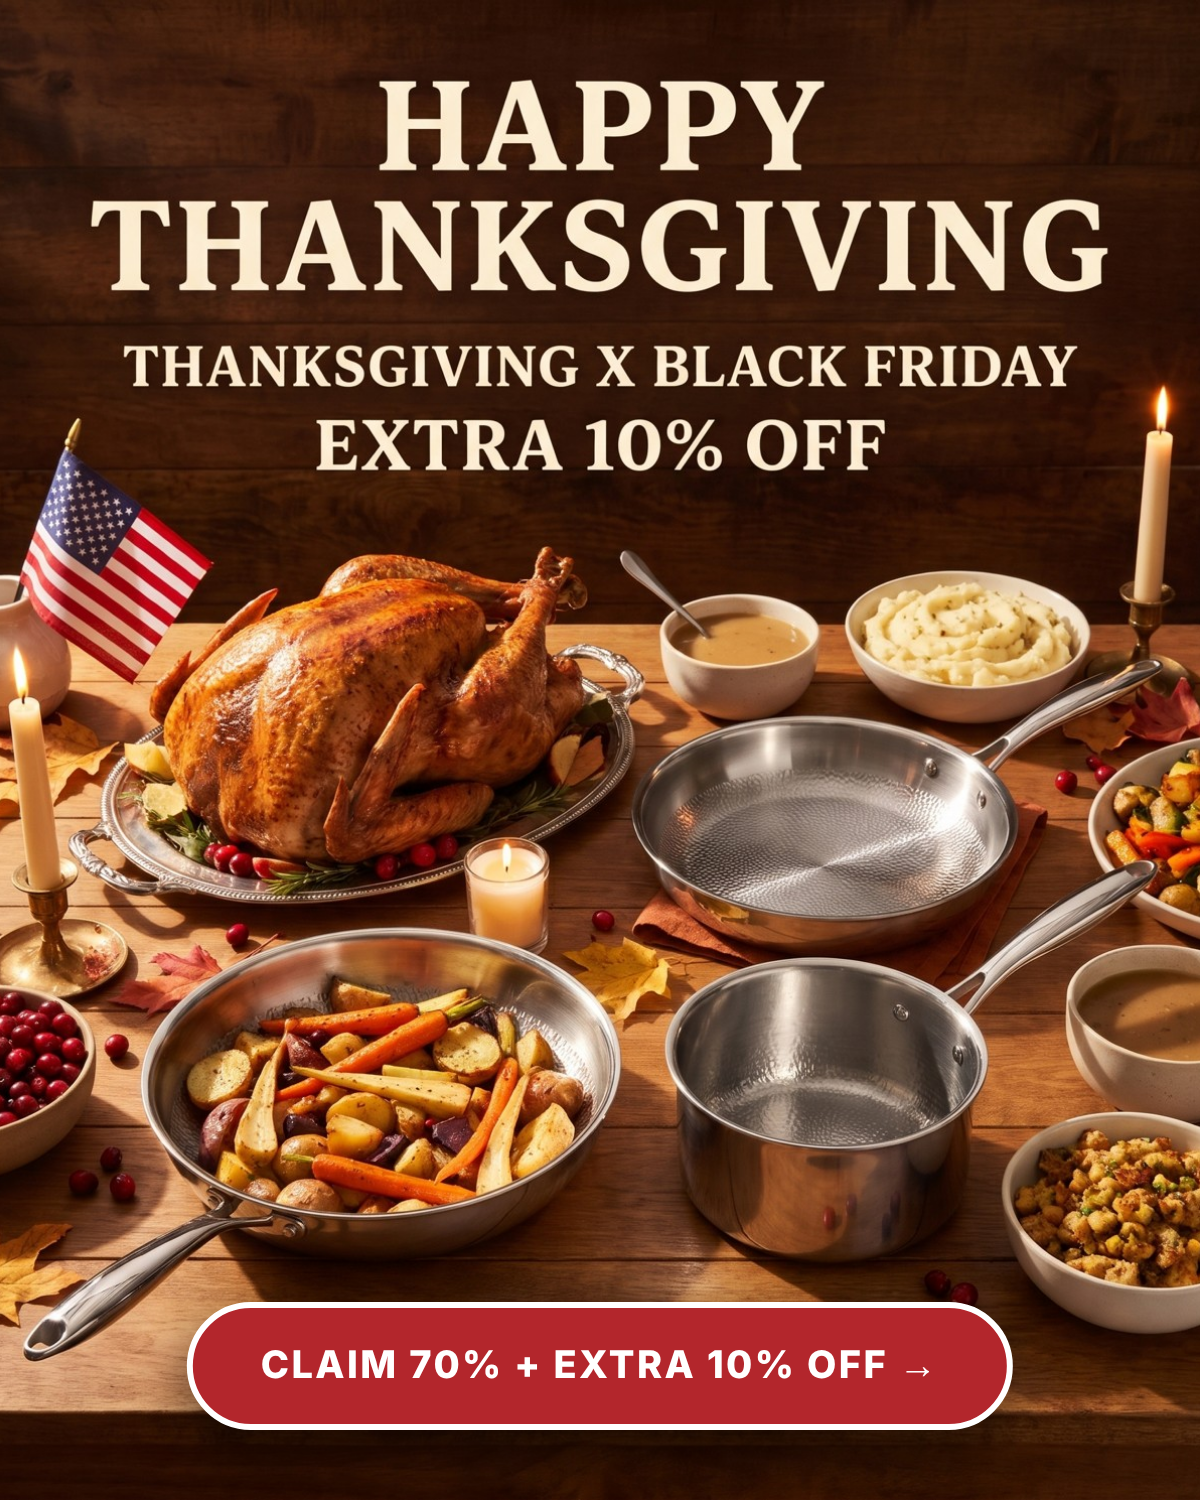
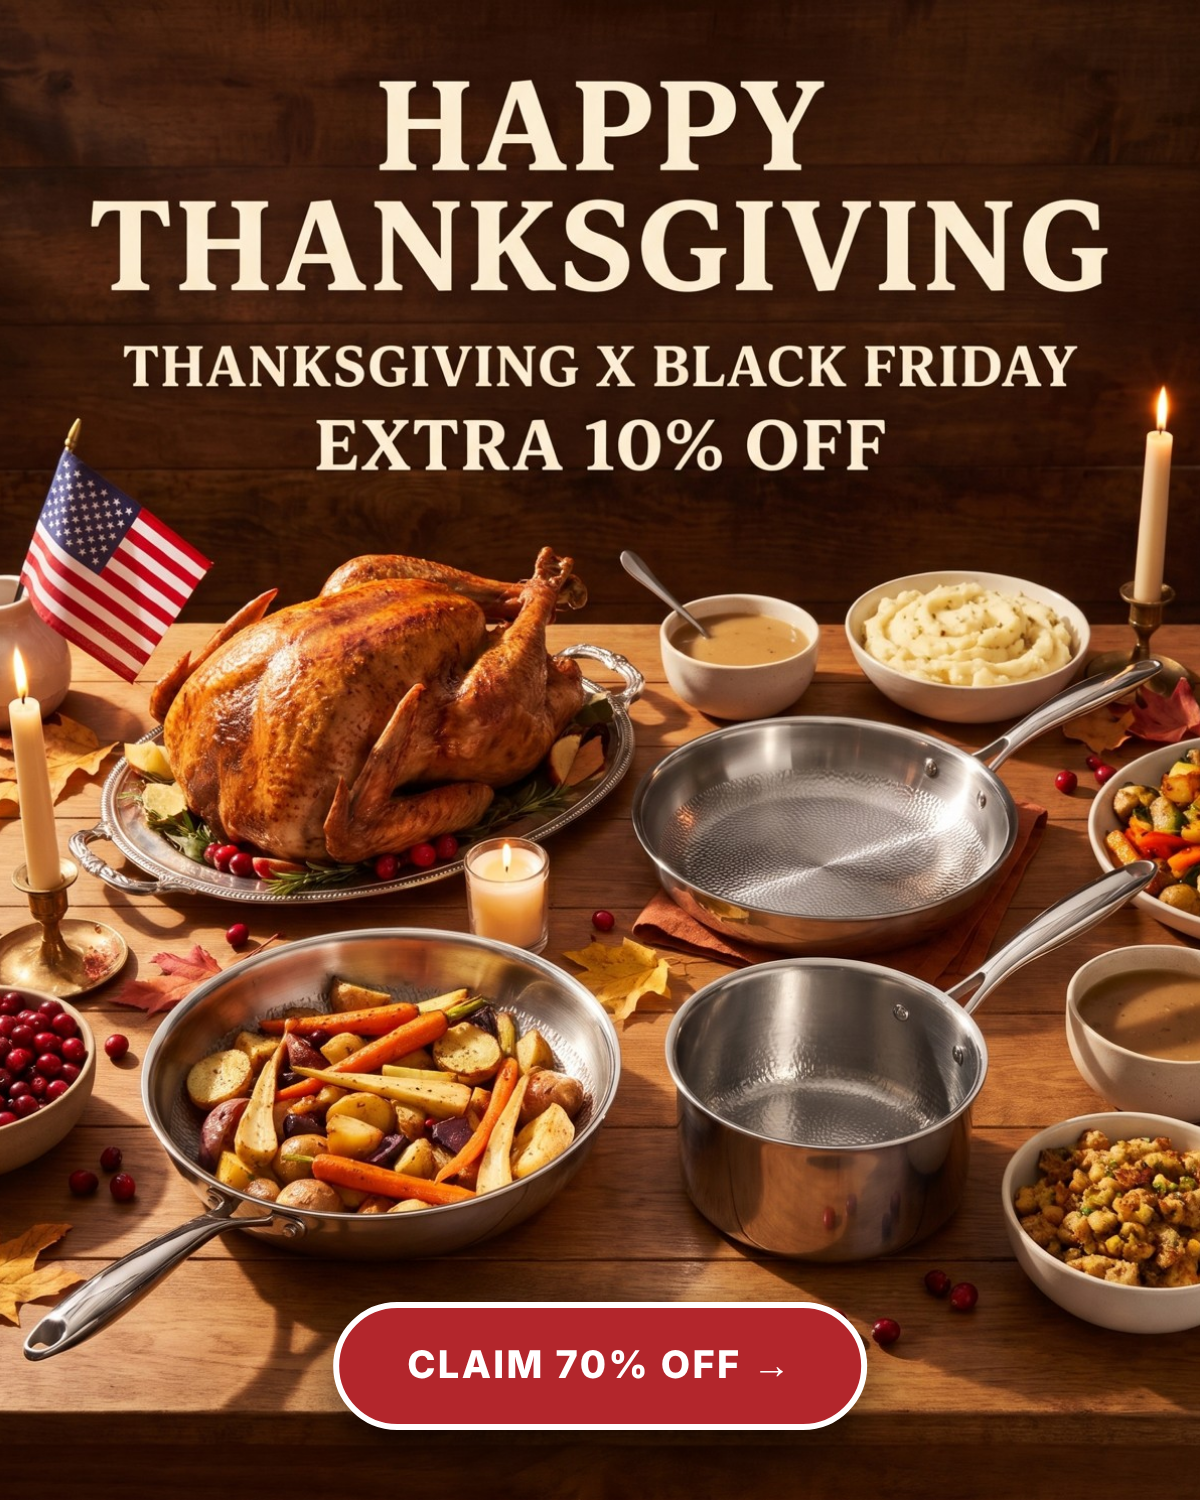
US hero button: CLAIM 70% OFF
Claude-Session: https://claude.ai/code/session_01HjCaDE95ohEXY6DPZTSH67

Changed region(s): [[0.1233, 0.8587, 0.8633, 0.9813]]

diff --git a/klaviyo/templates/v3/campaigns/thanksgiving-1126/_tools/.preview/us.html b/klaviyo/templates/v3/campaigns/thanksgiving-1126/_tools/.preview/us.html
@@ -18,7 +18,7 @@
 </td></tr>
 
 <tr><td bgcolor="#1F2A44" style="background-color:#1F2A44;padding:11px 20px;text-align:center;font-family:Inter,Arial,Helvetica,sans-serif;font-size:12px;line-height:17px;letter-spacing:1.5px;font-weight:700;color:#FFFFFF;">EXTRA 10% OFF ENDS TONIGHT AT MIDNIGHT</td></tr>
-<tr><td style="padding:0;"><a href="https://siraatskitchen.com/discount/THANKSGIVING10?redirect=/collections/black-friday-sale&utm_source=klaviyo&utm_medium=email&utm_campaign=thanksgiving-1126-us&utm_content=hero"><img src="https://cdn.klaviyomail.com/company/TdtTzz/images/9397460a-17a7-41e2-901f-aa3e456256a6.jpeg" width="600" alt="Happy Thanksgiving. Thanksgiving x Black Friday, extra 10% off. Claim 70% + extra 10% off." style="display:block;width:100%;max-width:600px;height:auto;border:0;"></a></td></tr>
+<tr><td style="padding:0;"><a href="https://siraatskitchen.com/discount/THANKSGIVING10?redirect=/collections/black-friday-sale&utm_source=klaviyo&utm_medium=email&utm_campaign=thanksgiving-1126-us&utm_content=hero"><img src="https://cdn.klaviyomail.com/company/TdtTzz/images/44b48b3b-8d66-4fdd-8b0e-d450aa5657c6.jpeg" width="600" alt="Happy Thanksgiving. Thanksgiving x Black Friday, extra 10% off. Claim 70% off." style="display:block;width:100%;max-width:600px;height:auto;border:0;"></a></td></tr>
 <tr><td class="pad" bgcolor="#FFFFFF" style="padding:30px 40px 28px 40px;background-color:#FFFFFF;"><div style="font-family:Inter,Arial,Helvetica,sans-serif;font-size:19px;line-height:28px;color:#282828;text-align:left;padding:0 0 12px 0;"><b>Happy Thanksgiving 2026.</b></div><div style="font-family:Inter,Arial,Helvetica,sans-serif;font-size:17px;line-height:27px;color:#282828;text-align:left;padding:0 0 14px 0;">This morning I was at the office going through the Black Friday orders, and I kept thinking about this year. More than 100,000 of you now cook on our pans. That still doesn&rsquo;t feel real to me.</div><div style="font-family:Inter,Arial,Helvetica,sans-serif;font-size:17px;line-height:27px;color:#282828;text-align:left;padding:0 0 14px 0;">So I did something without running it by the team first: I put an <b>extra 10% off everything</b>, on top of the Black Friday sale. No meeting, no approval. Just a thank you for a year we never expected.</div><div style="font-family:Inter,Arial,Helvetica,sans-serif;font-size:17px;line-height:27px;color:#282828;text-align:left;padding:0 0 14px 0;">It&rsquo;s already applied when you tap any button in this email. But I can only keep it on for today, so <a href="https://siraatskitchen.com/discount/THANKSGIVING10?redirect=/collections/black-friday-sale&utm_source=klaviyo&utm_medium=email&utm_campaign=thanksgiving-1126-us&utm_content=story-link" style="color:#B3262C;font-weight:700;text-decoration:underline;">the extra 10% ends tonight at midnight.</a></div><div style="font-family:Inter,Arial,Helvetica,sans-serif;font-size:17px;line-height:27px;color:#282828;text-align:left;padding:0 0 14px 0;">Here&rsquo;s to a full table today, and a healthy end of the year for you and yours.</div><div style="font-family:Inter,Arial,Helvetica,sans-serif;font-size:17px;line-height:27px;color:#282828;text-align:left;padding:4px 0 0 0;">Benjamin<br><span style="color:#6B6660;font-size:14px;">Founder, Siraat</span></div></td></tr>
 <tr><td class="pad" bgcolor="#1E1D1B" style="padding:34px 40px 34px 40px;background-color:#1E1D1B;"><div style="font-family:Inter,Arial,Helvetica,sans-serif;font-size:13px;line-height:18px;letter-spacing:3px;font-weight:700;color:#CDB27A;text-align:center;">BLACK FRIDAY SALE &middot; THANKSGIVING EXTRA</div><div style="font-family:Inter,Arial,Helvetica,sans-serif;font-size:60px;line-height:62px;font-weight:800;color:#FFFFFF;text-align:center;padding:12px 0 2px 0;letter-spacing:-1px;">UP TO 70% OFF</div><div style="font-family:Inter,Arial,Helvetica,sans-serif;font-size:30px;line-height:36px;font-weight:800;color:#F2C14E;text-align:center;padding-bottom:16px;">+ AN EXTRA 10% OFF</div><table role="presentation" width="100%" cellpadding="0" cellspacing="0" border="0"><tr><td align="center" style="border:2px dashed #CDB27A;border-radius:6px;padding:12px;"><div style="font-family:Inter,Arial,Helvetica,sans-serif;font-size:12px;letter-spacing:2px;font-weight:600;color:#BDB8B0;">USE CODE</div><div style="font-family:Inter,Arial,Helvetica,sans-serif;font-size:30px;line-height:38px;letter-spacing:4px;font-weight:800;color:#FFFFFF;">THANKSGIVING10</div><div style="font-family:Inter,Arial,Helvetica,sans-serif;font-size:13px;line-height:19px;color:#BDB8B0;">Already applied when you tap any button &middot; <b style="color:#F2C14E;">ends tonight at midnight</b></div></td></tr></table><div style="height:20px;">&nbsp;</div><table role="presentation" width="100%" cellpadding="0" cellspacing="0" border="0"><tr><td align="center" bgcolor="#B3262C" style="background-color:#B3262C;border-radius:4px;"><a href="https://siraatskitchen.com/discount/THANKSGIVING10?redirect=/collections/black-friday-sale&utm_source=klaviyo&utm_medium=email&utm_campaign=thanksgiving-1126-us&utm_content=offer-btn" style="display:block;padding:18px 20px;font-family:Inter,Arial,Helvetica,sans-serif;font-size:15px;line-height:20px;font-weight:700;letter-spacing:1.2px;text-transform:uppercase;color:#FFFFFF;text-decoration:none;">Shop the Black Friday sale &rarr;</a></td></tr></table><div style="font-family:Inter,Arial,Helvetica,sans-serif;font-size:14px;line-height:20px;color:#BDB8B0;text-align:center;padding:12px 0 0 0;">+ 5 FREE gifts with every order ($555 value) &middot; Extra 10% ends tonight</div></td></tr>
 <tr><td class="pad" bgcolor="#F1EEE7" style="padding:30px 20px 16px 20px;background-color:#F1EEE7;"><table role="presentation" width="100%" cellpadding="0" cellspacing="0" border="0" style="background:#FFFFFF;border:1px solid #E5E0D6;border-radius:8px;"><tr><td style="padding:0;"><a href="https://siraatskitchen.com/discount/THANKSGIVING10?redirect=/products/titanium-hammered-cookware-set-12-pcs-free-pizza-steel-1&utm_source=klaviyo&utm_medium=email&utm_campaign=thanksgiving-1126-us&utm_content=set12-img"><img src="https://cdn.shopify.com/s/files/1/0907/0877/1156/files/12pcsset.webp?v=1781591412&width=1100&height=1100&crop=center&format=pjpg" width="558" alt="Siraat Titanium Hammered Cookware Set, 12 pieces" style="display:block;width:100%;max-width:558px;height:auto;border:0;border-radius:8px 8px 0 0;"></a></td></tr><tr><td style="padding:20px 22px 22px 22px;"><table role="presentation" cellpadding="0" cellspacing="0" border="0"><tr><td bgcolor="#B3262C" style="background-color:#B3262C;border-radius:3px;padding:6px 10px;font-family:Inter,Arial,Helvetica,sans-serif;font-size:12px;font-weight:800;letter-spacing:1.5px;color:#FFFFFF;">68% OFF + EXTRA 10%</td><td style="padding-left:10px;font-family:Inter,Arial,Helvetica,sans-serif;font-size:12px;font-weight:700;letter-spacing:1.5px;color:#6B6660;">+ FREE PIZZA STEEL</td></tr></table><div class="h2" style="font-family:'Instrument Serif','Times New Roman',Times,serif;font-size:30px;line-height:34px;color:#282828;padding:12px 0 8px 0;">The 12-piece Titanium Hammered Cookware Set</div><div style="font-family:Inter,Arial,Helvetica,sans-serif;font-size:18px;line-height:28px;color:#282828;text-align:left;padding:0 0 10px 0;"><span style="text-decoration:line-through;color:#6B6660;">$2,047</span> &nbsp;$649 &nbsp;&rarr;&nbsp; <b style="color:#B3262C;font-size:22px;">$584.10</b> <span style="color:#6B6660;font-size:14px;">with THANKSGIVING10</span></div><div style="font-family:Inter,Arial,Helvetica,sans-serif;font-size:15px;line-height:23px;color:#282828;text-align:left;padding:0 0 16px 0;"><b>Plus a FREE Titanium Hammered Pizza Steel</b> (still $149 on its own). Three hammered pans (8, 10, 12 inch), 2-qt and 3-qt saucepans, an 8-qt stock pot and six lids. Ships from our US warehouses. 93% sold.</div><table role="presentation" width="100%" cellpadding="0" cellspacing="0" border="0"><tr><td align="center" bgcolor="#B3262C" style="background-color:#B3262C;border-radius:4px;"><a href="https://siraatskitchen.com/discount/THANKSGIVING10?redirect=/products/titanium-hammered-cookware-set-12-pcs-free-pizza-steel-1&utm_source=klaviyo&utm_medium=email&utm_campaign=thanksgiving-1126-us&utm_content=set12-btn" style="display:block;padding:18px 20px;font-family:Inter,Arial,Helvetica,sans-serif;font-size:15px;line-height:20px;font-weight:700;letter-spacing:1.2px;text-transform:uppercase;color:#FFFFFF;text-decoration:none;">Claim my 12-piece set &rarr;</a></td></tr></table><div style="font-family:Inter,Arial,Helvetica,sans-serif;font-size:13px;line-height:19px;color:#6B6660;text-align:center;padding:10px 0 0 0;">Code already applied &middot; 30-day returns &middot; 75-year warranty</div></td></tr></table></td></tr>

diff --git a/klaviyo/templates/v3/campaigns/thanksgiving-1126/us.html b/klaviyo/templates/v3/campaigns/thanksgiving-1126/us.html
@@ -18,7 +18,7 @@
 </td></tr>
 
 <tr><td bgcolor="#1F2A44" style="background-color:#1F2A44;padding:11px 20px;text-align:center;font-family:Inter,Arial,Helvetica,sans-serif;font-size:12px;line-height:17px;letter-spacing:1.5px;font-weight:700;color:#FFFFFF;">EXTRA 10% OFF ENDS TONIGHT AT MIDNIGHT</td></tr>
-<tr><td style="padding:0;"><a href="https://siraatskitchen.com/discount/THANKSGIVING10?redirect=/collections/black-friday-sale&utm_source=klaviyo&utm_medium=email&utm_campaign=thanksgiving-1126-us&utm_content=hero"><img src="https://cdn.klaviyomail.com/company/TdtTzz/images/9397460a-17a7-41e2-901f-aa3e456256a6.jpeg" width="600" alt="Happy Thanksgiving. Thanksgiving x Black Friday, extra 10% off. Claim 70% + extra 10% off." style="display:block;width:100%;max-width:600px;height:auto;border:0;"></a></td></tr>
+<tr><td style="padding:0;"><a href="https://siraatskitchen.com/discount/THANKSGIVING10?redirect=/collections/black-friday-sale&utm_source=klaviyo&utm_medium=email&utm_campaign=thanksgiving-1126-us&utm_content=hero"><img src="https://cdn.klaviyomail.com/company/TdtTzz/images/44b48b3b-8d66-4fdd-8b0e-d450aa5657c6.jpeg" width="600" alt="Happy Thanksgiving. Thanksgiving x Black Friday, extra 10% off. Claim 70% off." style="display:block;width:100%;max-width:600px;height:auto;border:0;"></a></td></tr>
 <tr><td class="pad" bgcolor="#FFFFFF" style="padding:30px 40px 28px 40px;background-color:#FFFFFF;"><div style="font-family:Inter,Arial,Helvetica,sans-serif;font-size:19px;line-height:28px;color:#282828;text-align:left;padding:0 0 12px 0;"><b>Happy Thanksgiving 2026.</b></div><div style="font-family:Inter,Arial,Helvetica,sans-serif;font-size:17px;line-height:27px;color:#282828;text-align:left;padding:0 0 14px 0;">This morning I was at the office going through the Black Friday orders, and I kept thinking about this year. More than 100,000 of you now cook on our pans. That still doesn&rsquo;t feel real to me.</div><div style="font-family:Inter,Arial,Helvetica,sans-serif;font-size:17px;line-height:27px;color:#282828;text-align:left;padding:0 0 14px 0;">So I did something without running it by the team first: I put an <b>extra 10% off everything</b>, on top of the Black Friday sale. No meeting, no approval. Just a thank you for a year we never expected.</div><div style="font-family:Inter,Arial,Helvetica,sans-serif;font-size:17px;line-height:27px;color:#282828;text-align:left;padding:0 0 14px 0;">It&rsquo;s already applied when you tap any button in this email. But I can only keep it on for today, so <a href="https://siraatskitchen.com/discount/THANKSGIVING10?redirect=/collections/black-friday-sale&utm_source=klaviyo&utm_medium=email&utm_campaign=thanksgiving-1126-us&utm_content=story-link" style="color:#B3262C;font-weight:700;text-decoration:underline;">the extra 10% ends tonight at midnight.</a></div><div style="font-family:Inter,Arial,Helvetica,sans-serif;font-size:17px;line-height:27px;color:#282828;text-align:left;padding:0 0 14px 0;">Here&rsquo;s to a full table today, and a healthy end of the year for you and yours.</div><div style="font-family:Inter,Arial,Helvetica,sans-serif;font-size:17px;line-height:27px;color:#282828;text-align:left;padding:4px 0 0 0;">Benjamin<br><span style="color:#6B6660;font-size:14px;">Founder, Siraat</span></div></td></tr>
 <tr><td class="pad" bgcolor="#1E1D1B" style="padding:34px 40px 34px 40px;background-color:#1E1D1B;"><div style="font-family:Inter,Arial,Helvetica,sans-serif;font-size:13px;line-height:18px;letter-spacing:3px;font-weight:700;color:#CDB27A;text-align:center;">BLACK FRIDAY SALE &middot; THANKSGIVING EXTRA</div><div style="font-family:Inter,Arial,Helvetica,sans-serif;font-size:60px;line-height:62px;font-weight:800;color:#FFFFFF;text-align:center;padding:12px 0 2px 0;letter-spacing:-1px;">UP TO 70% OFF</div><div style="font-family:Inter,Arial,Helvetica,sans-serif;font-size:30px;line-height:36px;font-weight:800;color:#F2C14E;text-align:center;padding-bottom:16px;">+ AN EXTRA 10% OFF</div><table role="presentation" width="100%" cellpadding="0" cellspacing="0" border="0"><tr><td align="center" style="border:2px dashed #CDB27A;border-radius:6px;padding:12px;"><div style="font-family:Inter,Arial,Helvetica,sans-serif;font-size:12px;letter-spacing:2px;font-weight:600;color:#BDB8B0;">USE CODE</div><div style="font-family:Inter,Arial,Helvetica,sans-serif;font-size:30px;line-height:38px;letter-spacing:4px;font-weight:800;color:#FFFFFF;">THANKSGIVING10</div><div style="font-family:Inter,Arial,Helvetica,sans-serif;font-size:13px;line-height:19px;color:#BDB8B0;">Already applied when you tap any button &middot; <b style="color:#F2C14E;">ends tonight at midnight</b></div></td></tr></table><div style="height:20px;">&nbsp;</div><table role="presentation" width="100%" cellpadding="0" cellspacing="0" border="0"><tr><td align="center" bgcolor="#B3262C" style="background-color:#B3262C;border-radius:4px;"><a href="https://siraatskitchen.com/discount/THANKSGIVING10?redirect=/collections/black-friday-sale&utm_source=klaviyo&utm_medium=email&utm_campaign=thanksgiving-1126-us&utm_content=offer-btn" style="display:block;padding:18px 20px;font-family:Inter,Arial,Helvetica,sans-serif;font-size:15px;line-height:20px;font-weight:700;letter-spacing:1.2px;text-transform:uppercase;color:#FFFFFF;text-decoration:none;">Shop the Black Friday sale &rarr;</a></td></tr></table><div style="font-family:Inter,Arial,Helvetica,sans-serif;font-size:14px;line-height:20px;color:#BDB8B0;text-align:center;padding:12px 0 0 0;">+ 5 FREE gifts with every order ($555 value) &middot; Extra 10% ends tonight</div></td></tr>
 <tr><td class="pad" bgcolor="#F1EEE7" style="padding:30px 20px 16px 20px;background-color:#F1EEE7;"><table role="presentation" width="100%" cellpadding="0" cellspacing="0" border="0" style="background:#FFFFFF;border:1px solid #E5E0D6;border-radius:8px;"><tr><td style="padding:0;"><a href="https://siraatskitchen.com/discount/THANKSGIVING10?redirect=/products/titanium-hammered-cookware-set-12-pcs-free-pizza-steel-1&utm_source=klaviyo&utm_medium=email&utm_campaign=thanksgiving-1126-us&utm_content=set12-img"><img src="https://cdn.shopify.com/s/files/1/0907/0877/1156/files/12pcsset.webp?v=1781591412&width=1100&height=1100&crop=center&format=pjpg" width="558" alt="Siraat Titanium Hammered Cookware Set, 12 pieces" style="display:block;width:100%;max-width:558px;height:auto;border:0;border-radius:8px 8px 0 0;"></a></td></tr><tr><td style="padding:20px 22px 22px 22px;"><table role="presentation" cellpadding="0" cellspacing="0" border="0"><tr><td bgcolor="#B3262C" style="background-color:#B3262C;border-radius:3px;padding:6px 10px;font-family:Inter,Arial,Helvetica,sans-serif;font-size:12px;font-weight:800;letter-spacing:1.5px;color:#FFFFFF;">68% OFF + EXTRA 10%</td><td style="padding-left:10px;font-family:Inter,Arial,Helvetica,sans-serif;font-size:12px;font-weight:700;letter-spacing:1.5px;color:#6B6660;">+ FREE PIZZA STEEL</td></tr></table><div class="h2" style="font-family:'Instrument Serif','Times New Roman',Times,serif;font-size:30px;line-height:34px;color:#282828;padding:12px 0 8px 0;">The 12-piece Titanium Hammered Cookware Set</div><div style="font-family:Inter,Arial,Helvetica,sans-serif;font-size:18px;line-height:28px;color:#282828;text-align:left;padding:0 0 10px 0;"><span style="text-decoration:line-through;color:#6B6660;">$2,047</span> &nbsp;$649 &nbsp;&rarr;&nbsp; <b style="color:#B3262C;font-size:22px;">$584.10</b> <span style="color:#6B6660;font-size:14px;">with THANKSGIVING10</span></div><div style="font-family:Inter,Arial,Helvetica,sans-serif;font-size:15px;line-height:23px;color:#282828;text-align:left;padding:0 0 16px 0;"><b>Plus a FREE Titanium Hammered Pizza Steel</b> (still $149 on its own). Three hammered pans (8, 10, 12 inch), 2-qt and 3-qt saucepans, an 8-qt stock pot and six lids. Ships from our US warehouses. 93% sold.</div><table role="presentation" width="100%" cellpadding="0" cellspacing="0" border="0"><tr><td align="center" bgcolor="#B3262C" style="background-color:#B3262C;border-radius:4px;"><a href="https://siraatskitchen.com/discount/THANKSGIVING10?redirect=/products/titanium-hammered-cookware-set-12-pcs-free-pizza-steel-1&utm_source=klaviyo&utm_medium=email&utm_campaign=thanksgiving-1126-us&utm_content=set12-btn" style="display:block;padding:18px 20px;font-family:Inter,Arial,Helvetica,sans-serif;font-size:15px;line-height:20px;font-weight:700;letter-spacing:1.2px;text-transform:uppercase;color:#FFFFFF;text-decoration:none;">Claim my 12-piece set &rarr;</a></td></tr></table><div style="font-family:Inter,Arial,Helvetica,sans-serif;font-size:13px;line-height:19px;color:#6B6660;text-align:center;padding:10px 0 0 0;">Code already applied &middot; 30-day returns &middot; 75-year warranty</div></td></tr></table></td></tr>

diff --git a/klaviyo/templates/v3/campaigns/thanksgiving-1126/_tools/us-hero.html b/klaviyo/templates/v3/campaigns/thanksgiving-1126/_tools/us-hero.html
@@ -2,4 +2,4 @@
 body{margin:0}.s{position:relative;width:600px;height:750px;overflow:hidden}
 .s img{width:600px;height:750px;object-fit:cover;display:block}
 .b{position:absolute;left:50%;top:651px;transform:translateX(-50%);white-space:nowrap;background:#B3262C;border:3px solid #FFFFFF;border-radius:999px;padding:17px 34px;font-family:Inter,Arial,sans-serif;font-weight:800;font-size:19px;letter-spacing:1.2px;color:#fff;box-shadow:0 10px 28px rgba(0,0,0,.55)}
-</style></head><body><div class="s"><img src="hero-base.jpg"><div class="b">CLAIM 70% + EXTRA 10% OFF &rarr;</div></div></body></html>
+</style></head><body><div class="s"><img src="hero-base.jpg"><div class="b">CLAIM 70% OFF &rarr;</div></div></body></html>

diff --git a/klaviyo/templates/v3/campaigns/thanksgiving-1126/_tools/build.py b/klaviyo/templates/v3/campaigns/thanksgiving-1126/_tools/build.py
@@ -87,7 +87,7 @@ IMG12SQ = 'https://cdn.shopify.com/s/files/1/0907/0877/1156/files/12pcsset.webp?
 def us():
     m = 'us'
     b = topbar('EXTRA 10% OFF ENDS TONIGHT AT MIDNIGHT')
-    b += f'<tr><td style="padding:0;"><a href="{link(SALE, m, "hero")}"><img src="{UP["us-hero-thanksgiving-v5.jpg"]}" width="600" alt="Happy Thanksgiving. Thanksgiving x Black Friday, extra 10% off. Claim 70% + extra 10% off." style="display:block;width:100%;max-width:600px;height:auto;border:0;"></a></td></tr>\n'
+    b += f'<tr><td style="padding:0;"><a href="{link(SALE, m, "hero")}"><img src="{UP["us-hero-thanksgiving-v6.jpg"]}" width="600" alt="Happy Thanksgiving. Thanksgiving x Black Friday, extra 10% off. Claim 70% off." style="display:block;width:100%;max-width:600px;height:auto;border:0;"></a></td></tr>\n'
     story = (p('<b>Happy Thanksgiving 2026.</b>', 19, 28, pad='0 0 12px 0') +
              p('This morning I was at the office going through the Black Friday orders, and I kept thinking about this year. More than 100,000 of you now cook on our pans. That still doesn&rsquo;t feel real to me.') +
              p('So I did something without running it by the team first: I put an <b>extra 10% off everything</b>, on top of the Black Friday sale. No meeting, no approval. Just a thank you for a year we never expected.') +

diff --git a/LOG.md b/LOG.md
@@ -670,3 +670,4 @@ Nieuwste bovenaan. Elke regel: datum, wat er gedaan is, wat het opleverde of wat
 - 2026-11-26 · US Thanksgiving: losse knop onder hero weg, ronde rode knop met witte rand in de hero ('Claim 70% + extra 10% off', niet 80%), Pan Pro Standard ($144 -> $129.60) onder 6-delige set. R7fybM + Figma bijgewerkt, test verstuurd. Codes THANKSGIVING10 en BONAPPETIT10 actief.
 - 2026-11-26 · US Thanksgiving: verhaal Benjamin bovenaan (10% zonder overleg erbij gezet), THANKSGIVING10 eindigt nu vannacht 23:59 ET (Shopify endsAt 2026-11-27T04:59Z), urgentie 'ends tonight' door de hele mail. R7fybM + Figma bijgewerkt, test naar Lola.
 - 2026-11-26 · US: nieuwe hero (Revana, glad van buiten, gehamerd van binnen; 4 pogingen, $0,16), knop over model-'Shop Now', 'midnight' zonder ET, deadline-zin als rode link. INTL: verhaal Benjamin over Bon Appétit en de missie bovenaan. Templates, tests (Lola) en Figma bijgewerkt.
+- 2026-11-26 · US hero-knop nu 'CLAIM 70% OFF' (Floris; 80% afgewezen want max 73%). R7fybM bijgewerkt, beide tests naar Lola.
